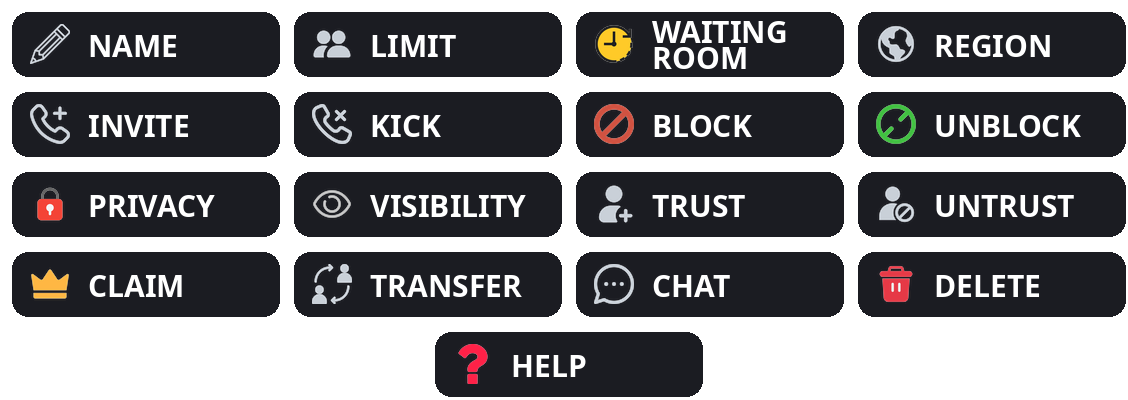
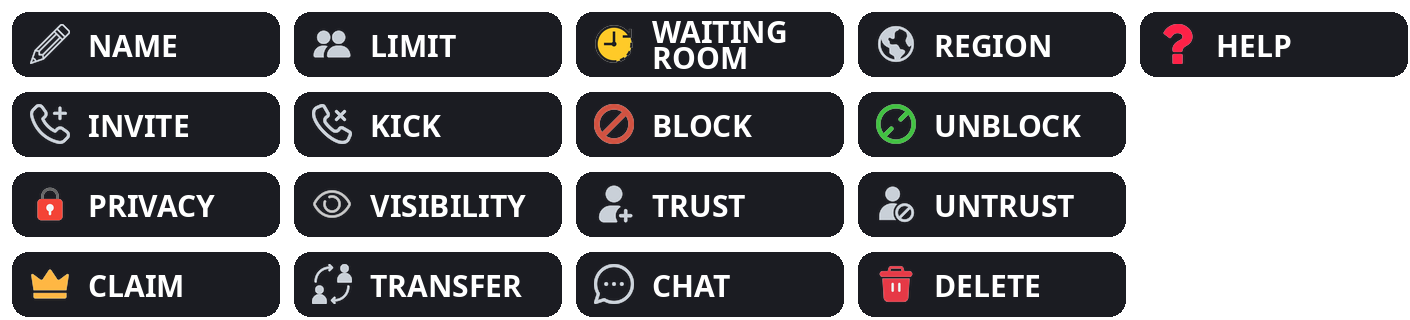
feat(tempvoice): 5-col panel layout (5+4+4+4)
- HELP moves to the end of row 1 (after REGION); rows 2-4 keep 4
  buttons each. No more orphan single-button row.
- Legend regenerated as a 5-column grid matching the panel exactly.

diff --git a/src/services/tempvoiceInterface.js b/src/services/tempvoiceInterface.js
@@ -1,9 +1,8 @@
 // tempvoiceInterface.js — TempVoice-style owner control panel for Join-to-Create temp channels.
 //
 // A persistent `#interface` text channel holds one embed with 17 buttons
-// (NAME, LIMIT, WAITING ROOM, REGION / INVITE, KICK, BLOCK, UNBLOCK /
-// PRIVACY, VISIBILITY, TRUST, UNTRUST / CLAIM, TRANSFER, CHAT, DELETE /
-// HELP — alone in the last row, like in the legend image). Only the recorded owner
+// (NAME, LIMIT, WAITING ROOM, REGION, HELP / INVITE, KICK, BLOCK, UNBLOCK /
+// PRIVACY, VISIBILITY, TRUST, UNTRUST / CLAIM, TRANSFER, CHAT, DELETE). Only the recorded owner
 // of a temporary voice channel may use the actions; everyone else gets an
 // ephemeral denial. Dynamic pickers (member lists, regions) are served as
 // ephemeral select menus built at click time.
@@ -67,6 +66,7 @@ const PANEL_BUTTONS = [
         { id: 'limit', label: 'LIMIT', icon: 'limit', emoji: '🔢', style: ButtonStyle.Secondary },
         { id: 'waitingroom', label: 'WAITING ROOM', icon: 'waitingroom', emoji: '🚪', style: ButtonStyle.Secondary },
         { id: 'region', label: 'REGION', icon: 'region', emoji: '🌍', style: ButtonStyle.Secondary },
+        { id: 'help', label: 'HELP', icon: 'help', emoji: '❓', style: ButtonStyle.Secondary },
     ],
     [
         { id: 'invite', label: 'INVITE', icon: 'invite', emoji: '📩', style: ButtonStyle.Secondary },
@@ -85,9 +85,6 @@ const PANEL_BUTTONS = [
         { id: 'transfer', label: 'TRANSFER', icon: 'transfer', emoji: '🔄', style: ButtonStyle.Secondary },
         { id: 'chat', label: 'CHAT', icon: 'chat', emoji: '💬', style: ButtonStyle.Secondary },
         { id: 'delete', label: 'DELETE', icon: 'delete', emoji: '🗑', style: ButtonStyle.Secondary },
-    ],
-    [
-        { id: 'help', label: 'HELP', icon: 'help', emoji: '❓', style: ButtonStyle.Secondary },
     ],
 ];
 
